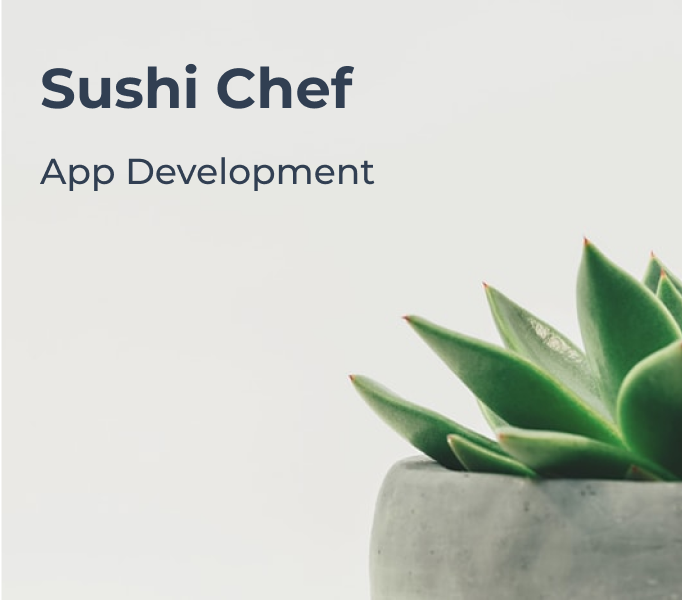
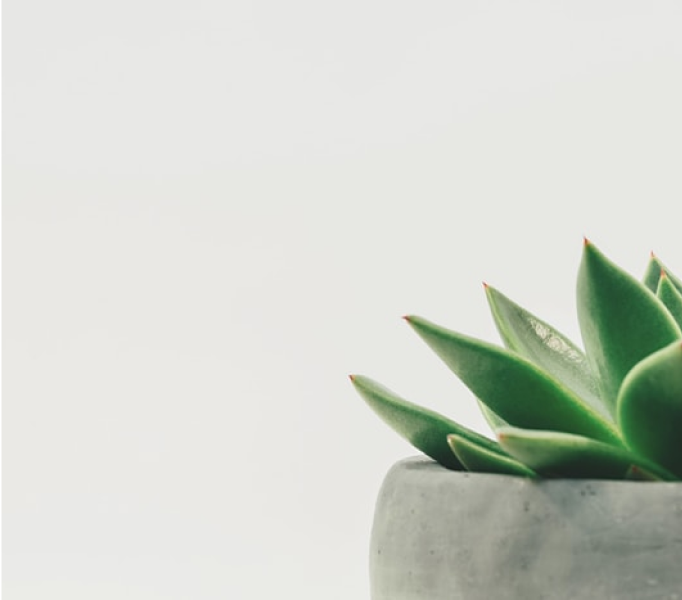
Portfolio finished

Changed region(s): [[0.0616, 0.09, 0.5235, 0.18], [0.0616, 0.24, 0.5543, 0.33]]

diff --git a/pages/portfolio.js b/pages/portfolio.js
@@ -4,26 +4,26 @@ import styles from "../styles/Home.module.css";
 
 export default function Portfolio() {
   return (
-    <div className="h-full w-full">
+    <div className="w-full">
       <Head>
         <title>Create Next App</title>
         <link rel="icon" href="/favicon.ico" />
       </Head>
-      <h1 className={styles.title}>Portfolio</h1>
+      <h2 className="my-7 text-5xl font-header font-normal text-phage-primary">Portfolio</h2>
 
+      <div className="w-full my-6 grid grid-cols-1 gap-y-6 md:grid-cols-3 md:grid-rows-4 md:gap-6">
 
-
-      <div className="grid grid-cols-1 md:grid-cols-3 md:grid-rows-4 gap-y-5 md:gap-10 h-full w-full">
-        <div className="md:row-span-2 md:col-span-1  bg-gray-500">
-        {<Card
+        <div className=" md:row-span-2 md:col-span-1 ">
+          <Card
             title="Influence"
             subtitle="Design and Development"
             path="/images/pc.png"
             width="300"
             height="600"
-          />}
+          />
+
         </div>
-        <div className="md:col-span-2 md:row-span-1    bg-gray-500">
+        <div className="bg-gray-500 md:row-span-1 md:col-span-2">
           <Card
             title="Influence"
             subtitle="Design and Development"
@@ -32,8 +32,8 @@ export default function Portfolio() {
             height="300"
           />
         </div>
-        <div className="md:col-span-1 md:row-span-1  bg-gray-500">
-          <Card
+        <div className=" bg-gray-500 md:row-span-1 md:col-span-1">
+        <Card
             title="Influence"
             subtitle="Design and Development"
             path="/images/pc3.png"
@@ -41,7 +41,66 @@ export default function Portfolio() {
             height="300"
           />
         </div>
-        <div className="md:col-span-1 md:row-span-2   bg-gray-500">
+        <div className="bg-gray-500 md:row-span-2 md:col-span-1">
+        <Card
+            title="Influence"
+            subtitle="Design and Development"
+            path="/images/pc.png"
+            width="300"
+            height="600"
+          />
+        </div>
+        <div className="bg-gray-500 md:row-span-2 md:col-span-2">
+        <Card
+            title="Influence"
+            subtitle="Design and Development"
+            path="/images/pc4.png"
+            width="600"
+            height="600"
+          />
+        </div>
+        <div className=" bg-gray-500 md:row-span-1 md:col-span-1">
+        <Card
+            title="Influence"
+            subtitle="Design and Development"
+            path="/images/pc3.png"
+            width="300"
+            height="300"
+          />
+        </div>
+ 
+      </div>
+      {/* <div className="grid grid-cols-1 md:grid-cols-3 md:grid-rows-2 h-full w-full">
+        <div className="md:row-span-2 md:col-span-1">
+          <Card
+            title="Influence"
+            subtitle="Design and Development"
+            path="/images/pc.png"
+            width="300"
+            height="600"
+          />
+        </div>
+
+        <div className="md:row-span-1 md:col-span-2">
+          <Card
+            title="Influence"
+            subtitle="Design and Development"
+            path="/images/pc2.png"
+            width="600"
+            height="300"
+          />
+        </div>
+<div className="md:row-span-1 md:col-span-2">
+          <Card
+            title="Influence"
+            subtitle="Design and Development"
+            path="/images/pc3.png"
+            width="600"
+            height="300"
+          />
+        </div>
+
+                <div className="md:row-span-2 md:col-span-1">
           <Card
             title="Influence"
             subtitle="Design and Development"
@@ -50,8 +109,8 @@ export default function Portfolio() {
             height="600"
           />
         </div>
-        <div className="md:row-span-2 md:col-span-2   bg-gray-500">
-        <Card
+        <div className="md:row-span-2 md:col-span-2">
+          <Card
             title="Influence"
             subtitle="Design and Development"
             path="/images/pc.png"
@@ -59,8 +118,8 @@ export default function Portfolio() {
             height="600"
           />
         </div>
-        <div className="md:row-span-1 md:col-span-1    bg-gray-500">
-        <Card
+        <div className="md:row-span-1 md:col-span-1">
+          <Card
             title="Influence"
             subtitle="Design and Development"
             path="/images/pc.png"
@@ -68,8 +127,7 @@ export default function Portfolio() {
             height="300"
           />
         </div>
-      
-      </div>
+      </div> */}
     </div>
   );
 }

diff --git a/components/Card.js b/components/Card.js
@@ -1,18 +1,28 @@
 import React from "react";
 import Image from "next/image";
+
 const Card = (props) => {
   return (
-    <div className="relative overflow-hidden w-full h-full">
-
-        {/* <img
+    <div className="relative w-full h-full \">
+      <img
           src={props.path}
-          alt=""
-          className=" object-fill"/> */}
+          alt={props.title}
+          width={props.width}
+          height={props.height}
+          className="object-cover w-full h-full"/>
 
-        <Image src={props.path} objectFit="cover" layout="fill"/>
-      <div className="absolute top-0 bg-transparent">
-        <h2 className="bg-transparent">{props.title}</h2>
-        <h3 className="bg-transparent">{props.subtitle}</h3>
+      {/* <Image
+        src={props.path}
+        width={props.width}
+        height={props.height}
+        layout="responsive"
+        objectFit="cover"
+        quality={100}
+      /> */}
+
+      <div className=" p-8 absolute top-0 bg-transparent">
+        <h2 className=" text-2xl text-phage-dark bg-transparent">{props.title}</h2>
+        <h3 className=" text-lg text-phage-dark bg-transparent">{props.subtitle}</h3>
       </div>
     </div>
   );

diff --git a/styles/globals.css b/styles/globals.css
@@ -93,24 +93,22 @@ h1 {
   font-size: var(--responsive);
   line-height: 150%;
   opacity: 1;
+  color: var(--phage-dark);
 }
+
+/* h2{
+  font-family: "Montserrat";
+  font-weight: 400;
+  --max-size: 48;
+  --min-size: 25;
+  font-size: var(--responsive);
+  line-height: 150%;
+  opacity: 1;
+  color: var(--phage-dark);
+} */
 .nav-text {
   font-family: "Orkney";
   font-size: 1em;
   font-weight: 400;
   font-style: normal;
 }
-
-/* .custom-img {
-  object-fit: contain;
-  width: 100% !important;
-  position: relative !important;
-  height: unset !important;
-}
-
-.unset-img {
-  width: 100%;
-}
-.unset-img > div {
-  position: unset !important;
-} */
